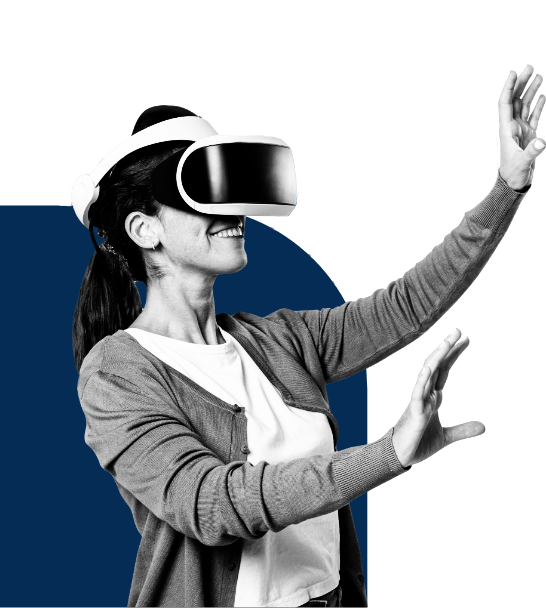
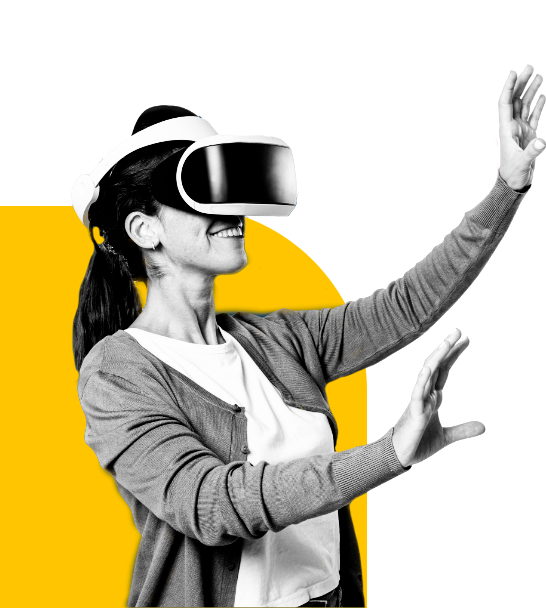
bho

diff --git a/src/index.js b/src/index.js
@@ -1,14 +1,15 @@
-import React from 'react';
-import ReactDOM from 'react-dom';
-import './index.css';
-import  'bootstrap/dist/css/bootstrap.min.css' ;
+import React from 'react'
+import ReactDOM from 'react-dom'
+import './styled/index.scss'
+import './styled/variables.scss'
+import  'bootstrap/dist/css/bootstrap.min.css' 
 import { BrowserRouter as Router, Routes, Route } from 'react-router-dom'
-import NavBar from './components/NavBar';
-import About from './page/about';
-import App from './App';
-import Work from './page/work';
-import Contact from './page/contact';
-
+import NavBar from './components/NavBar/NavBar'
+import About from './layout/about'
+import App from './App'
+import Work from './layout/work'
+import Contact from './layout/contact'
+import Footer from './components/Footer/footer'
 
 
 ReactDOM.render(
@@ -20,6 +21,7 @@ ReactDOM.render(
           <Route exact path="/work" element={<Work />} />
           <Route exact path="/contact" element={<Contact />} />
         </Routes>
+    <Footer />
   </Router>,
   
   document.getElementById('root')

diff --git a/src/App.js b/src/App.js
@@ -1,10 +1,10 @@
 import React, { Component } from 'react'
 import { CardGroup, Col, Container,} from 'react-bootstrap'
-import Hero from './components/Hero'
-import Tech from './components/technology'
-import Feature from './components/feature'
+import Hero from './components/Hero/Hero'
+import Tech from './components/Tech/technology'
+import Feature from './components/Feature/feature'
 
-import BoxIntro from './components/box-intro'
+import BoxIntro from './components/BoxIntro/box-intro'
 import { Row } from 'react-bootstrap'
 
 import ImageOne from './img/box-1.png'

diff --git a/src/components/NavBar/NavBar.jsx b/src/components/NavBar/NavBar.jsx
@@ -3,13 +3,11 @@ import { Nav } from 'react-bootstrap'
 import { Navbar } from 'react-bootstrap'
 import { Container } from 'react-bootstrap'
 import { Link } from 'react-router-dom'
-// import './NavBar.css'
 import './NavBarStyle.scss'
-import Logo from '../img/logo-white.png'
+import Logo from '../../img/logo-white.png'
 import { FaFacebook } from 'react-icons/fa';
 import { FaGithub } from 'react-icons/fa';
 import { FaLinkedinIn } from 'react-icons/fa';
-
 
 
 

diff --git a/src/components/Footer/footer.jsx b/src/components/Footer/footer.jsx
@@ -1,0 +1,16 @@
+import React, { Component } from 'react'
+import { Container } from 'react-bootstrap'
+
+
+export default class footer extends Component {
+    render() {
+        return (
+            <>
+            <Container className='mt-5 py-5'>
+                <h1>Component Footer</h1>  
+            </Container>
+              
+            </>
+        )
+    }
+}

diff --git a/src/components/Feature/feature.jsx b/src/components/Feature/feature.jsx
@@ -2,7 +2,7 @@ import React, { Component } from 'react'
 import './feature.scss'
 import {Row, Col} from 'react-bootstrap'
 import { Button } from 'react-bootstrap'
-import Image from '../img/Feature.png'
+import Image from '../../img/Feature.png'
 
 export default class feature extends Component {
     render() {

diff --git a/src/styled/index.scss b/src/styled/index.scss
@@ -16,3 +16,13 @@ code {
   font-family: source-code-pro, Menlo, Monaco, Consolas, 'Courier New',
     monospace;
 }
+
+*,
+*:before,
+*:after {
+        -webkit-box-sizing: border-box;
+        -moz-box-sizing: border-box;
+        box-sizing: border-box;
+        margin: 0;
+        padding: 0;
+}

diff --git a/src/components/Hero/Hero.jsx b/src/components/Hero/Hero.jsx
@@ -1,7 +1,7 @@
 import React from 'react'
 import { Button, Row } from 'react-bootstrap'
 import { Col } from 'react-bootstrap'
-import image from '../img/hero.png'
+import image from '../../img/hero.png'
 import './Hero.scss'
 
 

diff --git a/src/components/Hero/Hero.scss b/src/components/Hero/Hero.scss
@@ -1,5 +1,6 @@
 .hero{
-    height: 100vh;
+    height: 80vh;
+    padding-top: 100px;
 
     .hero_content{
         padding-top: 5rem;

diff --git a/src/styled/variables.scss b/src/styled/variables.scss
@@ -1,0 +1,5 @@
+
+/* ! Colors */
+
+$yellow: #ffc107;
+$white: rgb(232, 232, 232);
